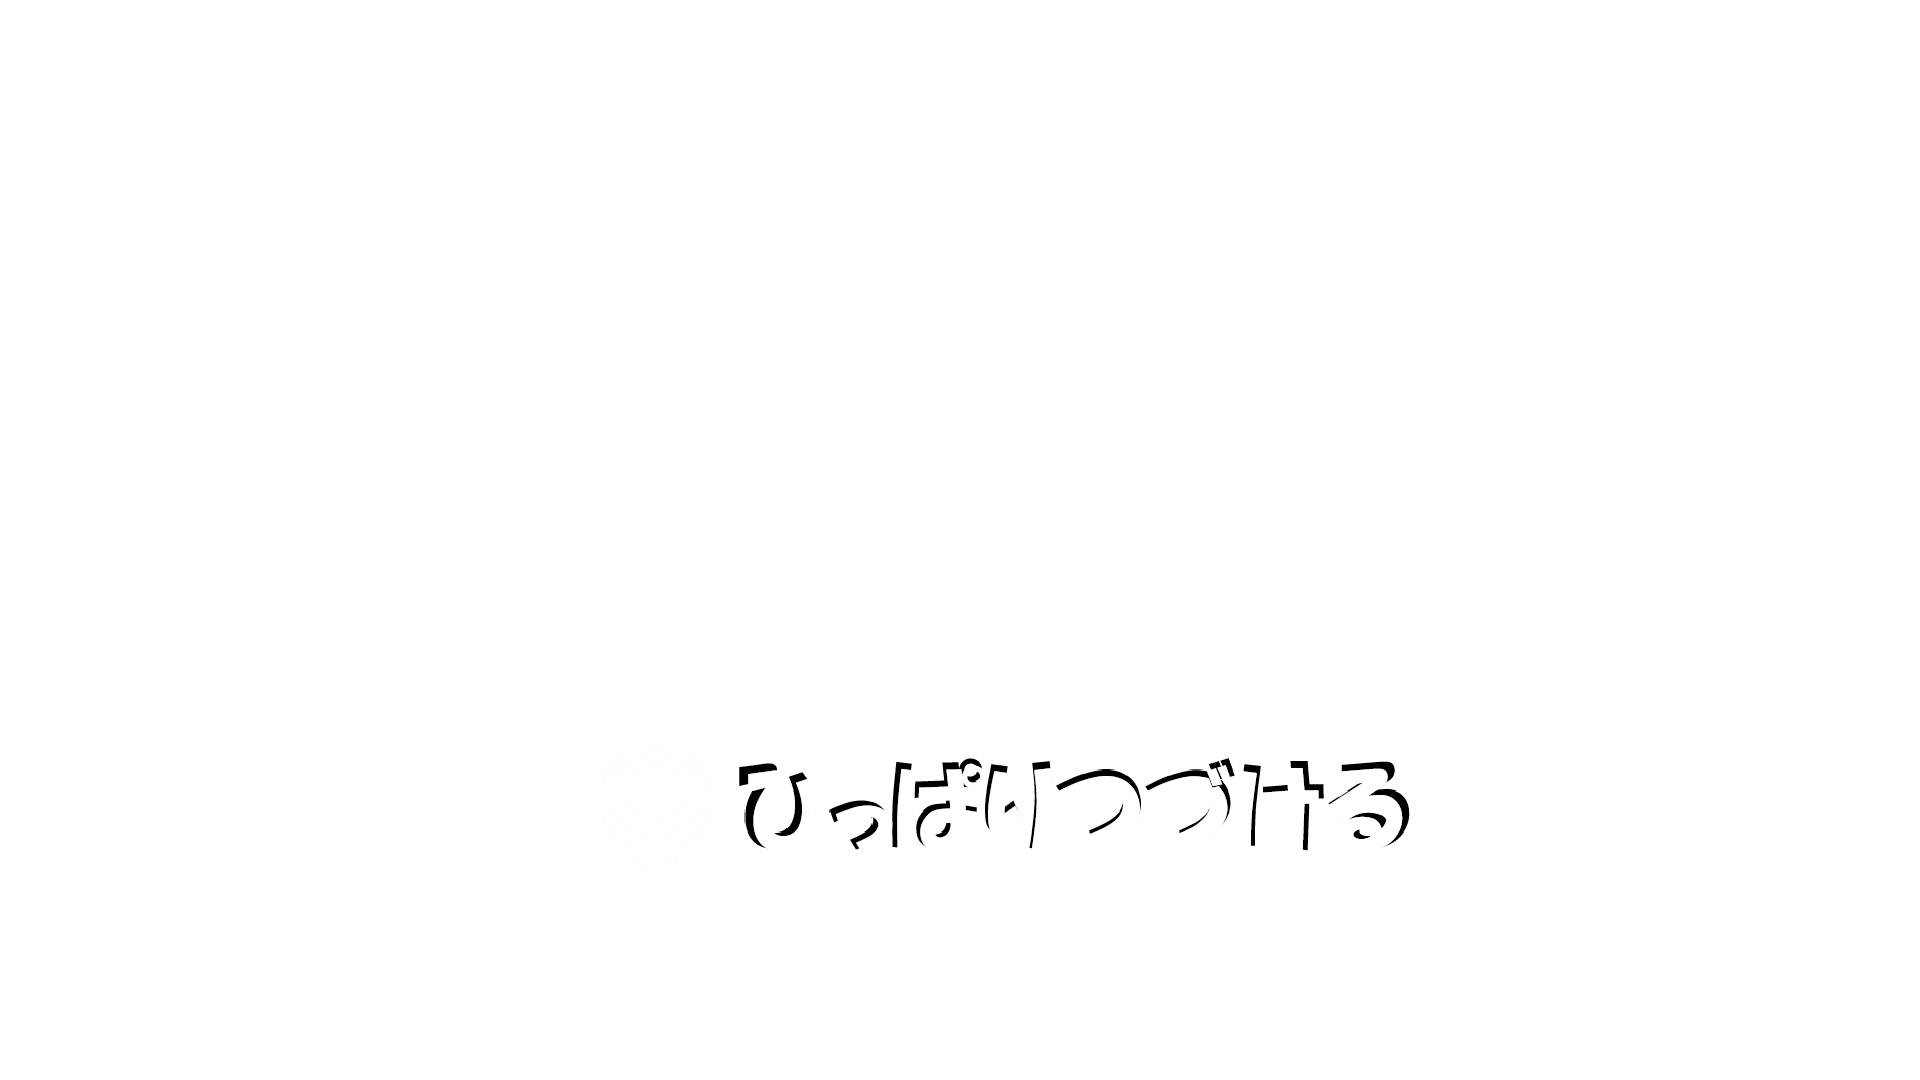
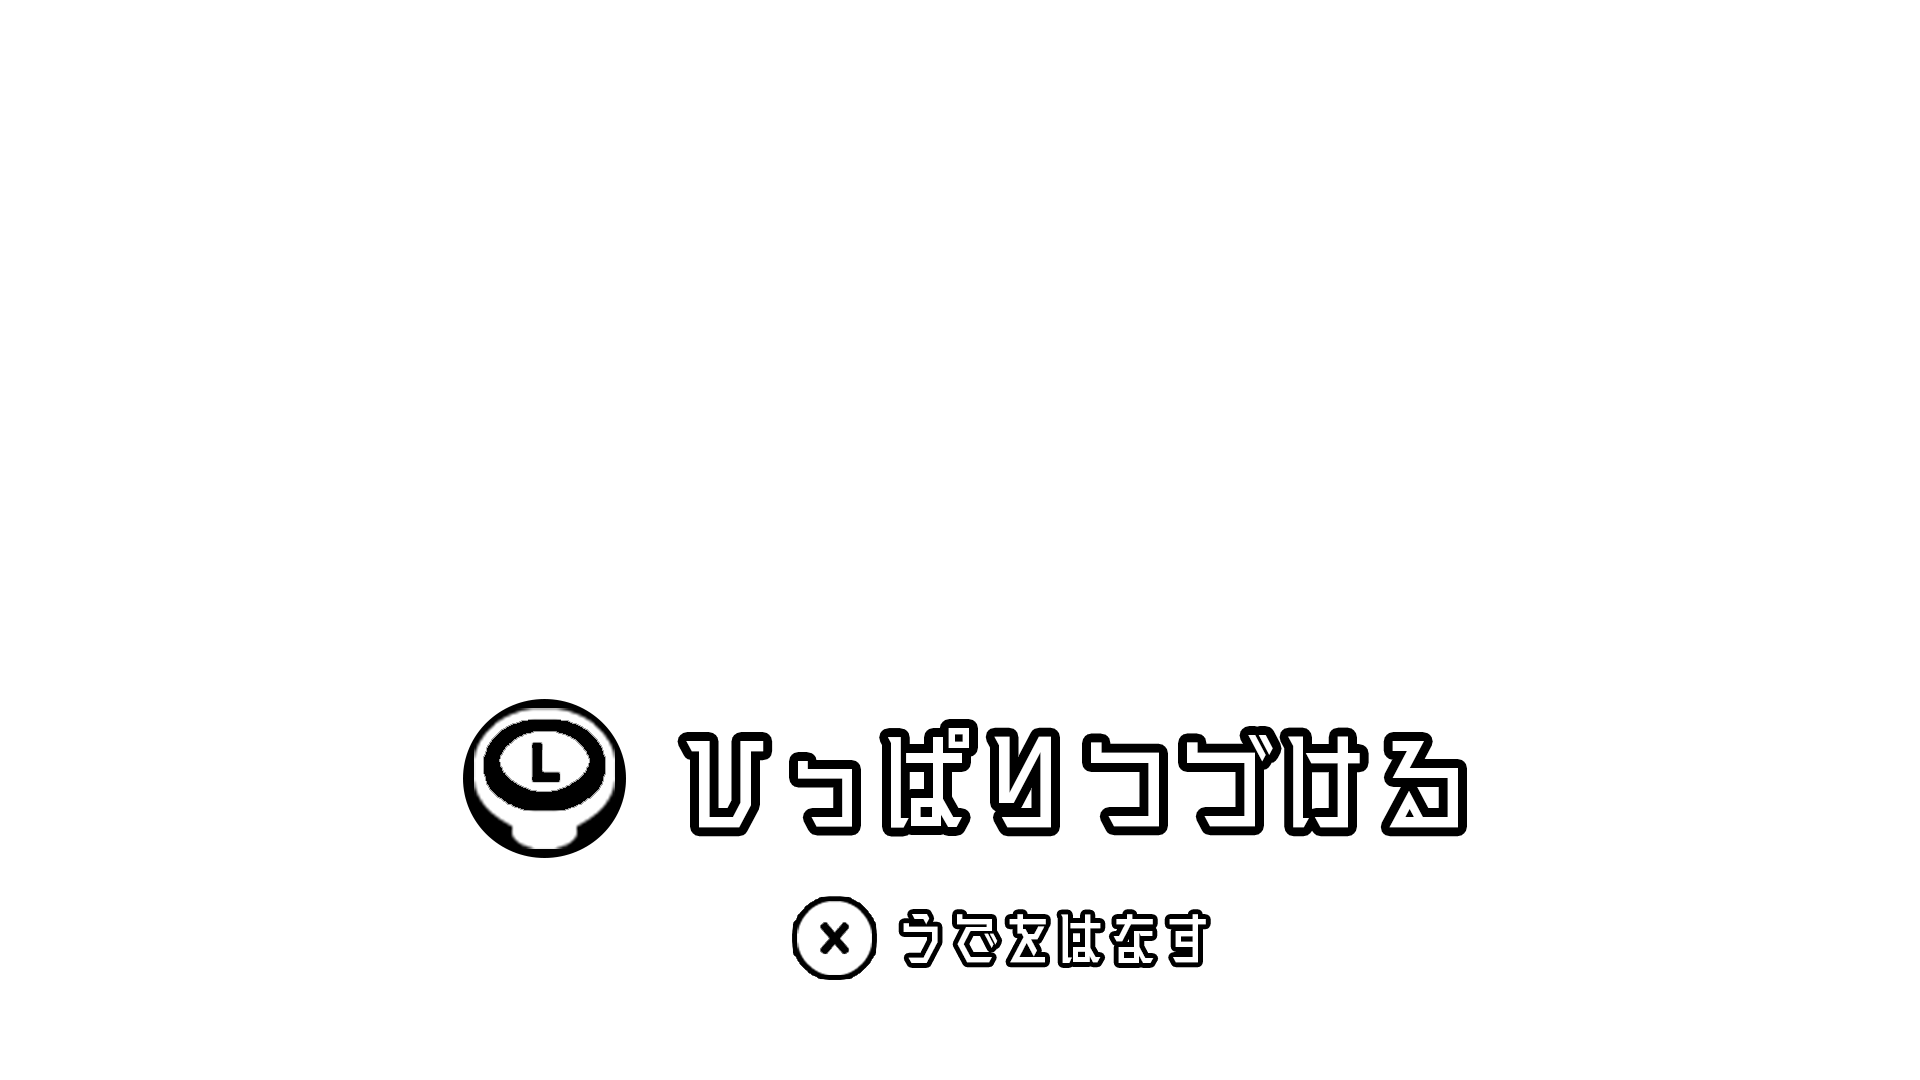
oorui
Add_operationsUI

Changed region(s): [[0.2188, 0.6417, 0.7812, 0.7944], [0.4062, 0.825, 0.625, 0.9167]]

diff --git a/PullProject/src/Debug/Scene/MainGameScene.cpp b/PullProject/src/Debug/Scene/MainGameScene.cpp
@@ -230,10 +230,13 @@ void MainGameScene::Render() {
 
 	Application::GetInstance().GetEffectManager().Render();
 	
+	// 最前面UIScreenを取得
 	auto screen = static_cast<MainGameScreen*>(m_UIManager.GetTopScreen());
-
-	screen->SetActionUIVisible(playerHand->IsLeverCatch());
-	
+	// レバーを掴んだ時のUI表示
+	screen->SetLeverUIVisible(playerHand->IsLeverCatch());
+	// 敵を掴んだ時のUI
+	screen->SetMisileUIVisible(playerHand->IsEnemyCatch());
+	// UI表示
     m_UIManager.Draw();
 
 #if _DEBUG
@@ -264,7 +267,7 @@ void MainGameScene::Cleanup() {
 
 void MainGameScene::Reset() {
 	// フェードに入る
-	FadeManager::GetInstance().FadeStart(FadeOut, FadeType::FadeNormal, 0.2f);
+	FadeManager::GetInstance().FadeStart(FadeIn, FadeType::FadeNormal, 1.0f);
 	// シーンの片付けを呼ぶ
 	Cleanup();
 	// 自身のセットアップ処理を呼ぶ
